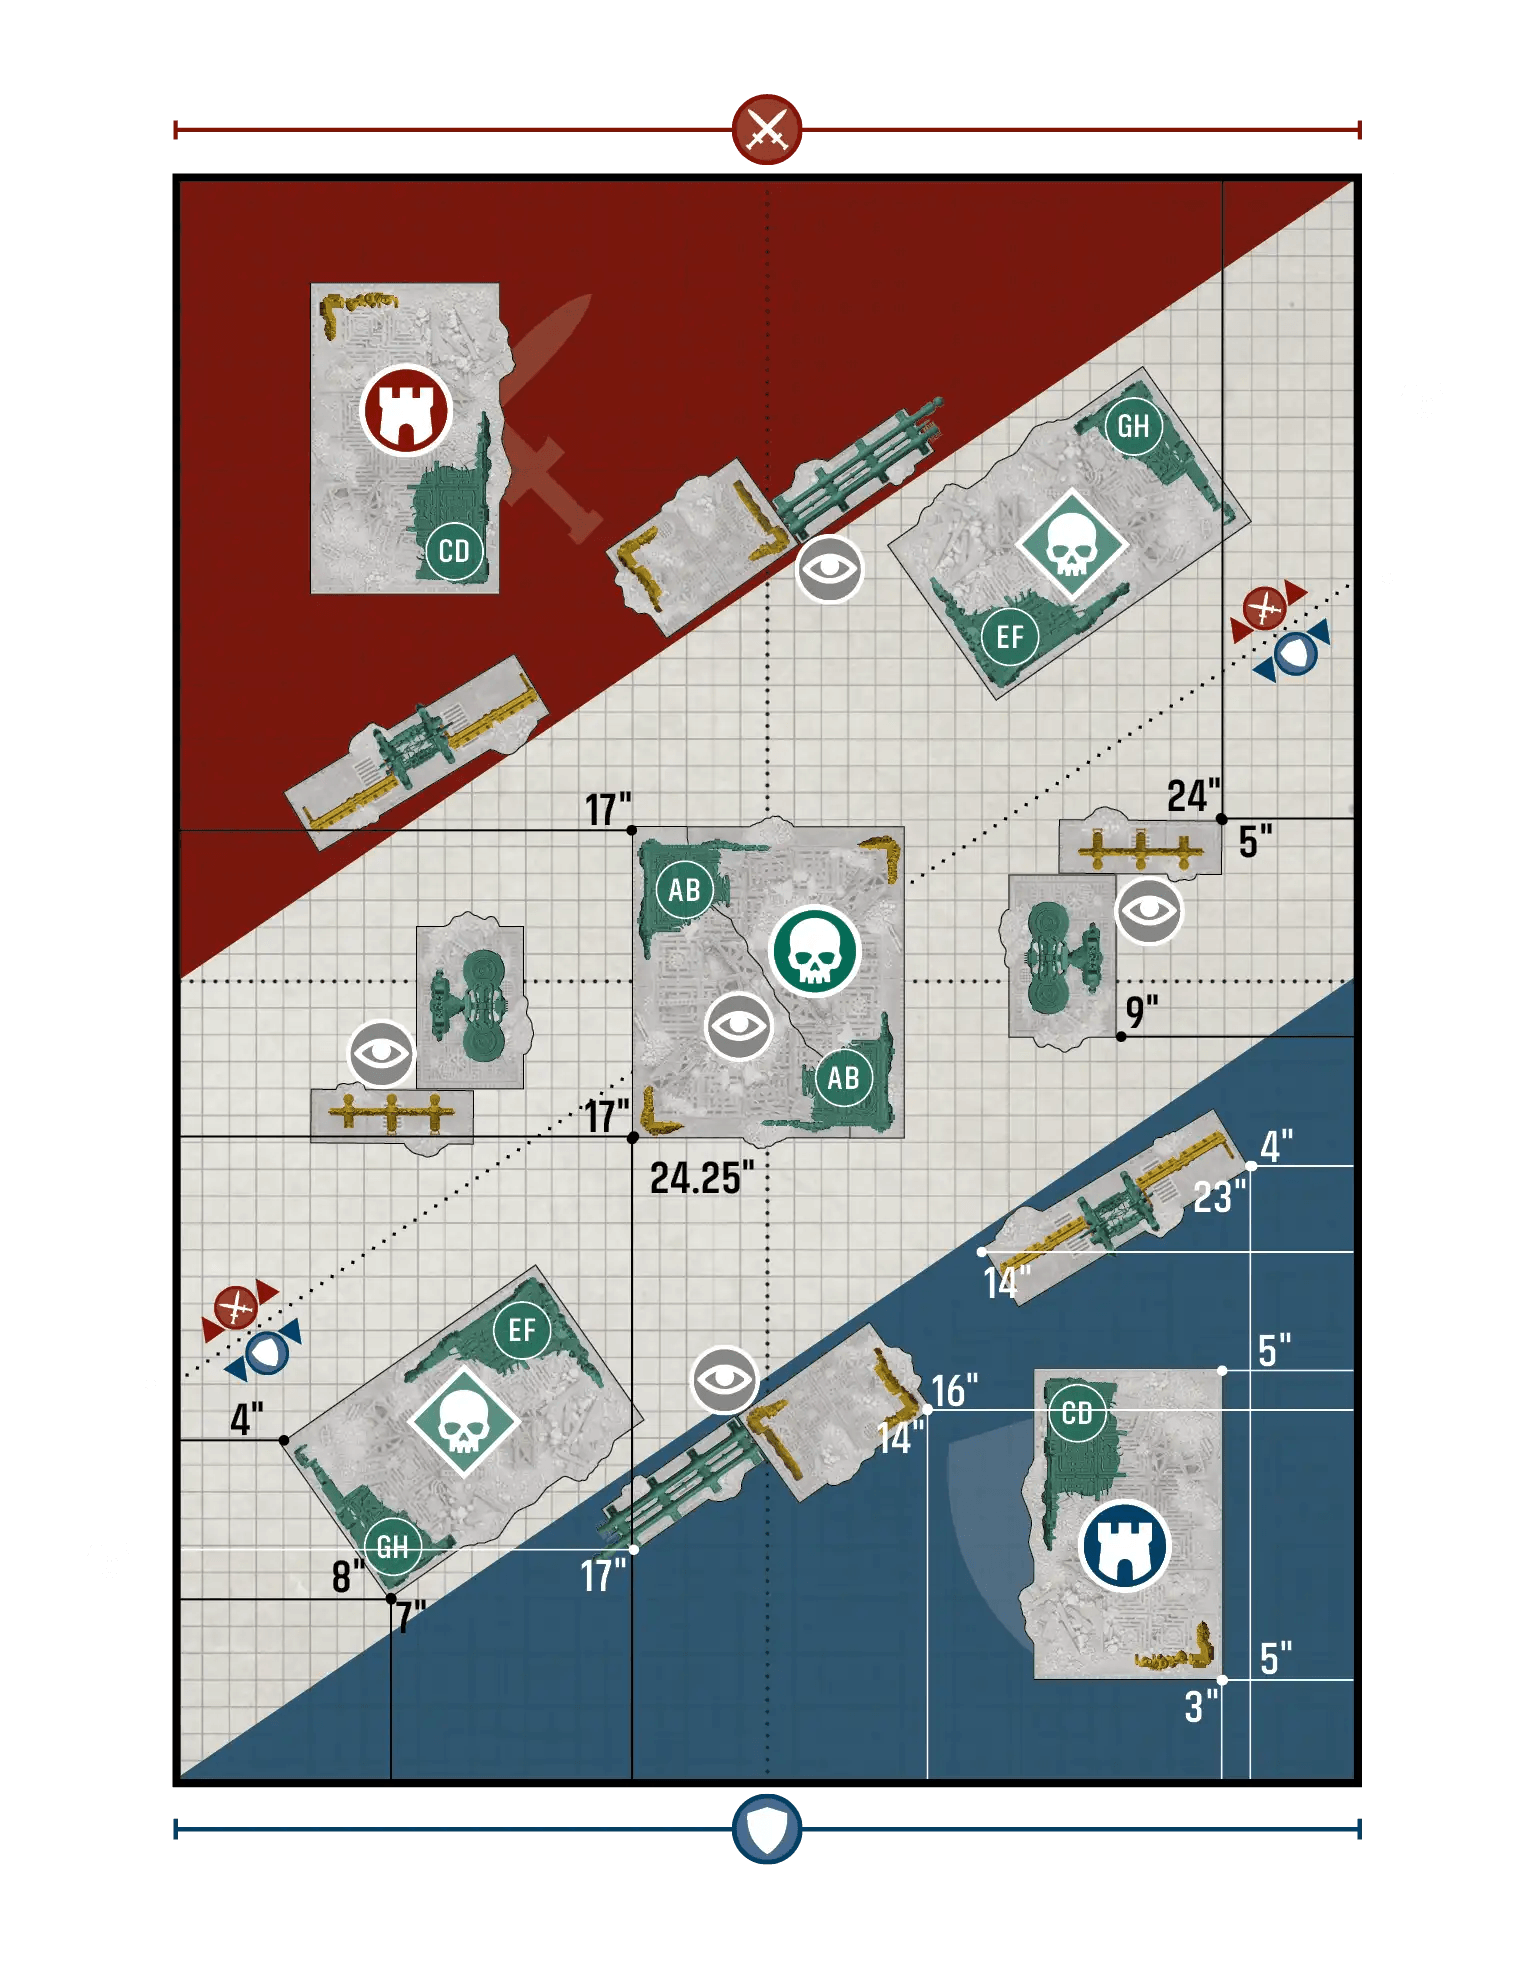
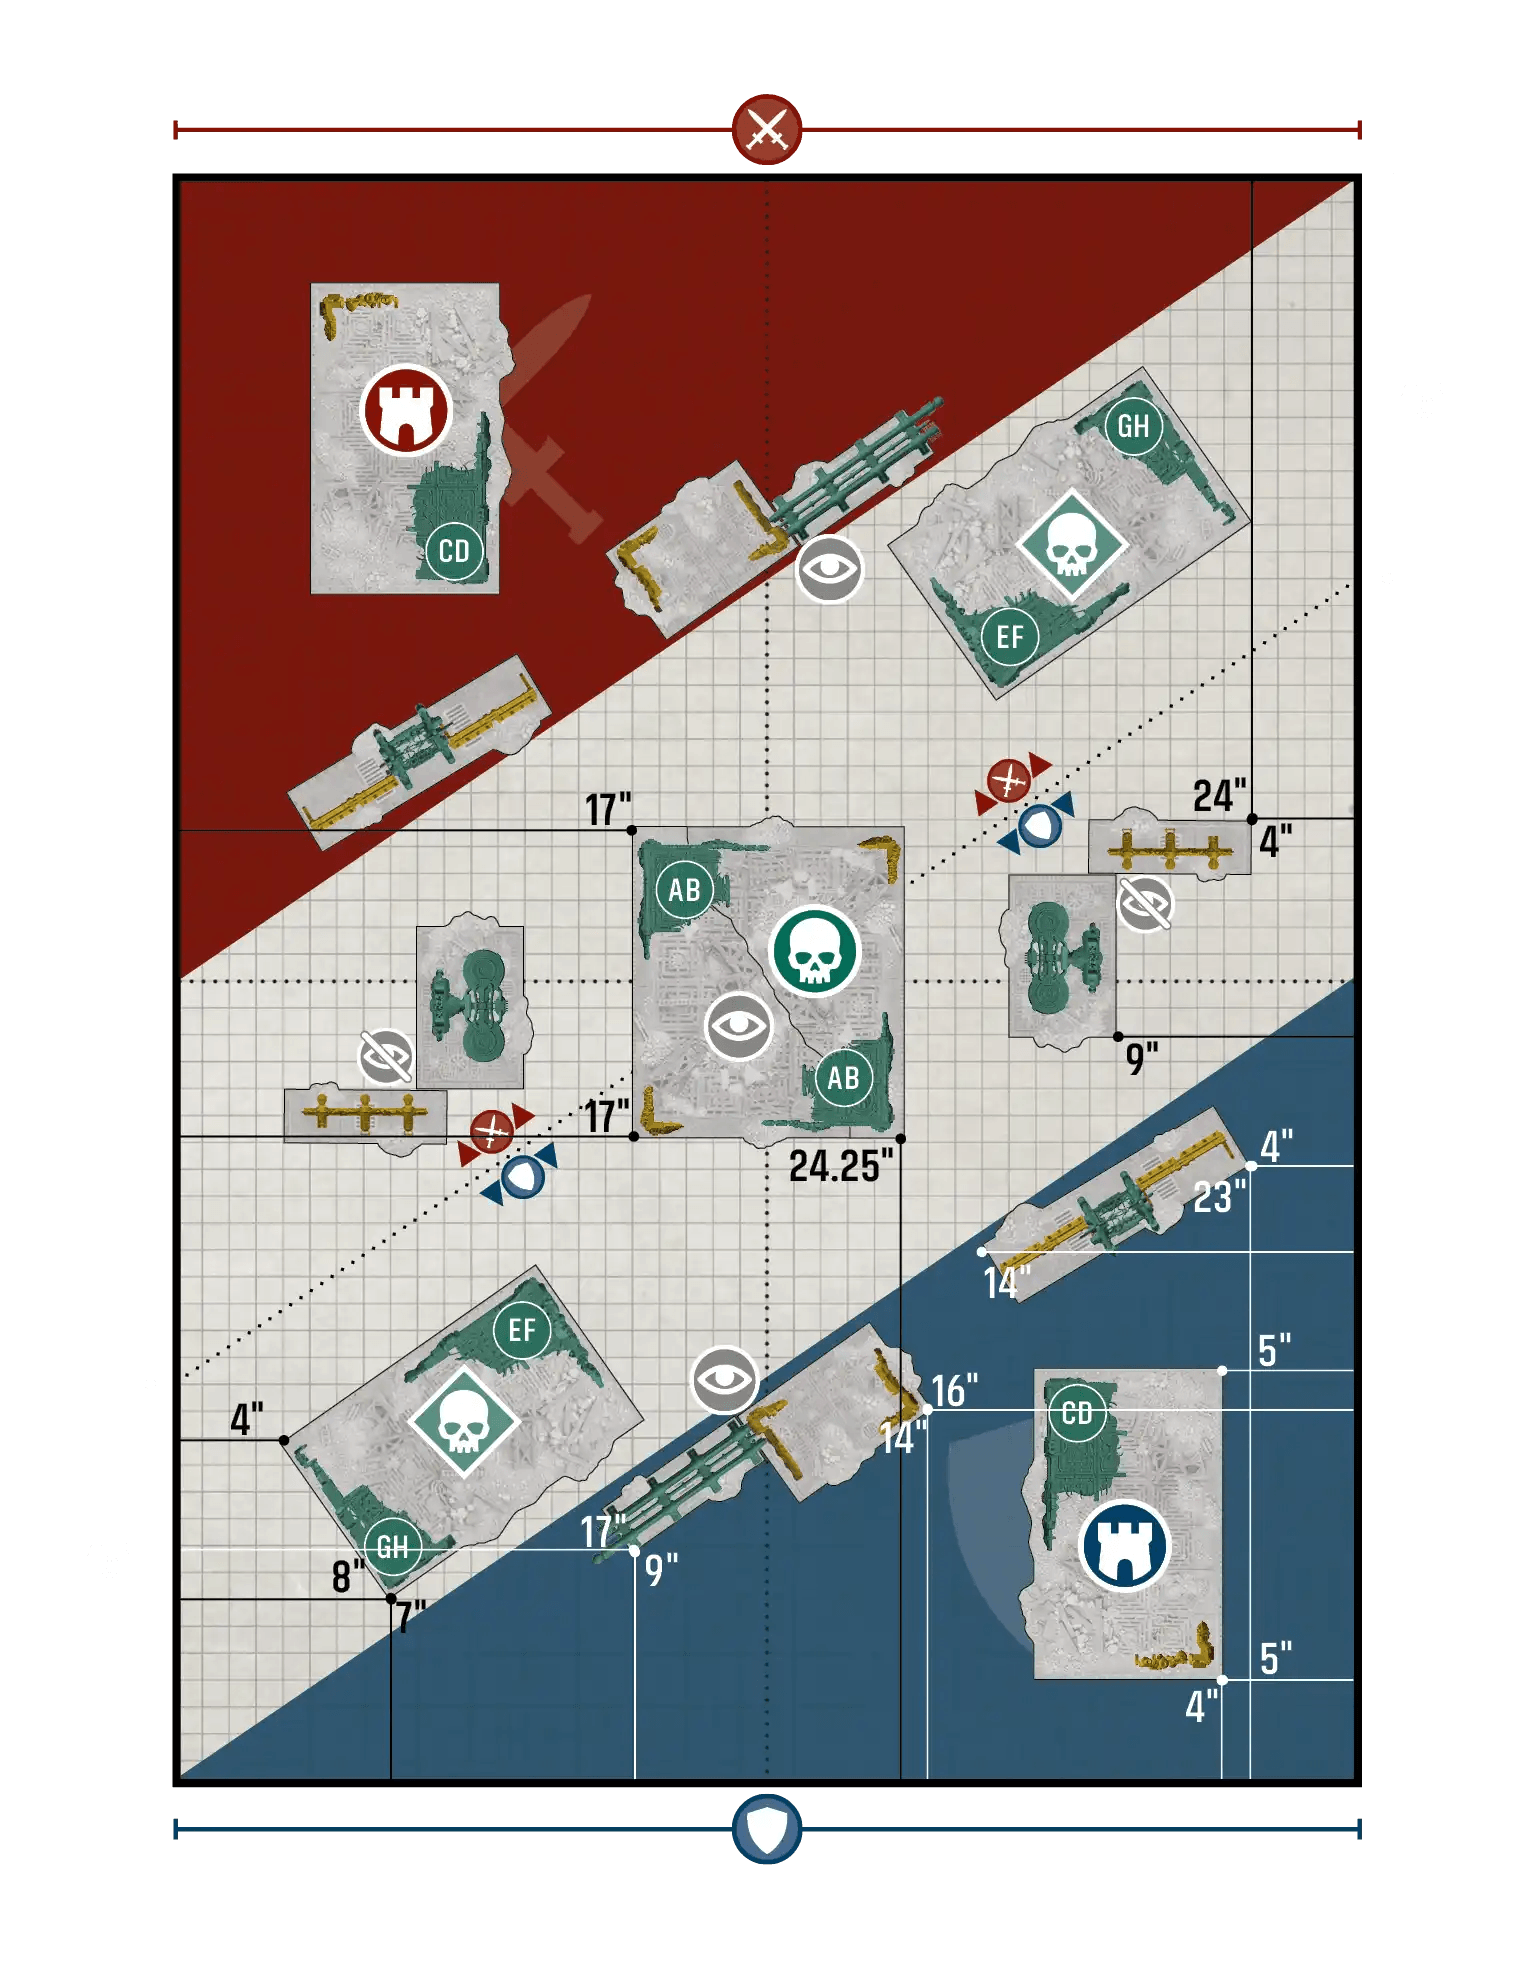
Update terrain layout images to wahapedia's current versions
27 of the 45 layout diagrams have been revised upstream (terrain
pieces moved/rotated, new measurements). Same filenames, so the
missions.layout_*_image_path values are unchanged. Deployment maps
were re-checked and are identical.

Claude-Session: https://claude.ai/code/session_01Kph9wMVtv5E9eV2g21y8E5

diff --git a/docs/ruleset-content.md b/docs/ruleset-content.md
@@ -147,6 +147,12 @@ achieved instead of typing a raw VP number.
   asking for a deployment as a separate, independent pick (see
   [status.md](./status.md#terrain-layout-attackerdefender-turn-order),
   `20260323000000_deployment_optional.sql`).
+- GW revises layouts without renaming anything, so refreshing them is a
+  file swap, not a migration: the page's `CA7_Layouts` map gives each
+  pairing's A/B/C image URL; download those over the same local
+  filenames (pair sorted alphabetically, lowercased, no spaces). Last
+  synced 2026-10-26 (27 of the 45 layouts had changed; the 6
+  deployment maps under `img/maps/cards/` had not).
 - Picking a layout (`games.layout_variant`) is required before a game can
   start, same as every other setup field except army name -- but, like
   those, stays freely editable for the life of the game once set.
